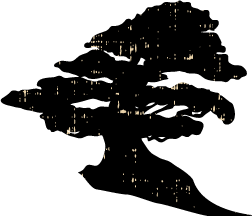
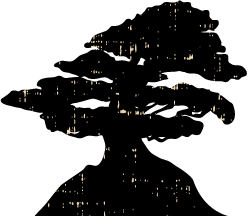
new look and feel continued

Changed region(s): [[0.1389, 0.7778, 0.8056, 1.0], [0.7778, 0.8611, 1.0, 1.0]]

diff --git a/src/App.css b/src/App.css
@@ -37,16 +37,42 @@
     background-image: url(images/tree-01.png);
     width: 252px;
     height: 216px;
-    left: 202px;
-    bottom: 344px;
+    left: 100px;
+    bottom: 382px;
 }
 
 .tree-02 {
     background-image: url(images/tree-02.png);
     width: 223px;
     height: 176px;
-    right: 195px;
+    right: 178px;
     bottom: 451px;
+}
+
+.building-02 {
+    background-image: url(images/building-02.png);
+    width: 97px;
+    height: 262px;
+    right: 460px;
+    bottom: 375px;
+}
+
+.building-01 {
+  background-image: url(images/building-01.png);
+  width: 175px;
+  height: 185px;
+  left: 405px;
+  bottom: 347px;
+}
+.crane {
+  background-image: url(images/crane.png);
+  width: 50px;
+  height: 27px;
+
+}
+.crane-01 {
+  left: 640px;
+  bottom: 400px;
 }
 
 .sky {

diff --git a/src/App.js b/src/App.js
@@ -38,6 +38,9 @@ class App extends Component {
           <div className="layer ground">
             <div className="layer tree-01"></div>
             <div className="layer tree-02"></div>
+            <div className="layer building-01"></div>
+            <div className="layer building-02"></div>
+            <div className="layer crane crane-01"></div>
           </div>
         </div>
         {
